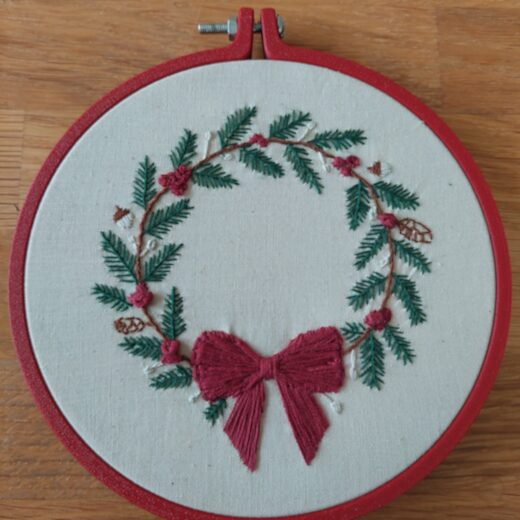
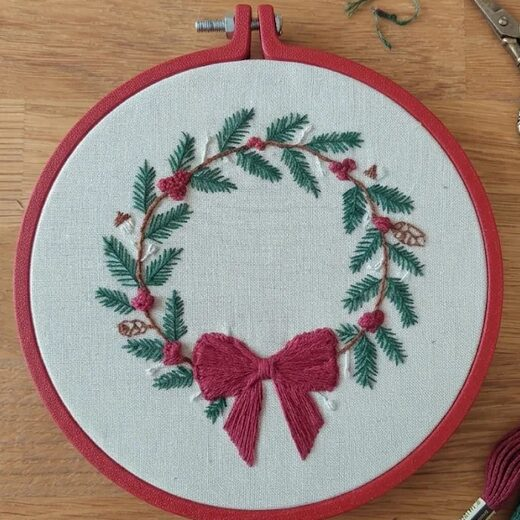
Couronne de Noël : photo mise en scène en principale
Claude-Session: https://claude.ai/code/session_015QeqxFQgaAZggYLjUjAvWV

diff --git a/components/catalog.js b/components/catalog.js
@@ -261,10 +261,13 @@ const LPS_CATALOG = {
       hoopColors: "all",
       label: "Couronne de Noël",
       tag: { icon: "🎀", text: "Coup de cœur" },
-      image: "./images/noel-couronne.jpg",
+      image: "./images/noel-couronne-scene.jpg",
       thumb: "./images/thumbs/noel-couronne.jpg",
       imageAlt: "Couronne de sapin brodée avec baies rouges, pommes de pin et grand nœud rouge, dans un cercle rouge",
-      gallery: [{ src: "./images/noel-couronne.jpg", alt: "Couronne de Noël brodée", rotation: 0 }],
+      gallery: [
+        { src: "./images/noel-couronne-scene.jpg", alt: "Couronne de Noël, mise en scène", rotation: 0 },
+        { src: "./images/noel-couronne.jpg", alt: "Couronne de Noël, photo réelle", rotation: 0 },
+      ],
       description: "Branches de sapin, baies rouges, pommes de pin et un grand nœud : la couronne de Noël à accrocher au mur ou à la porte.",
       delays: "kit 48 h ouvrées · broderie finie 5 à 8 jours",
       formats: ["kit", "fini"],
